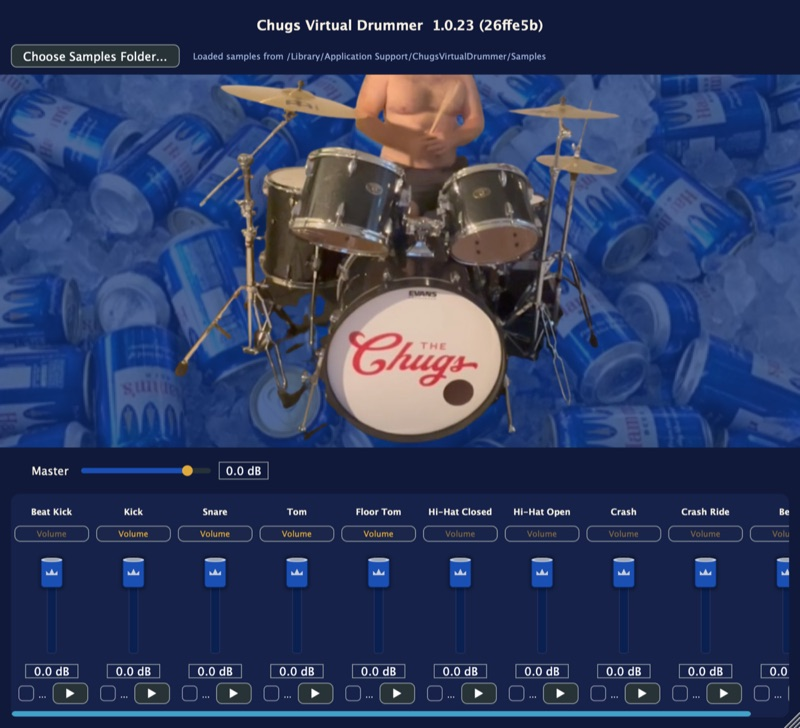
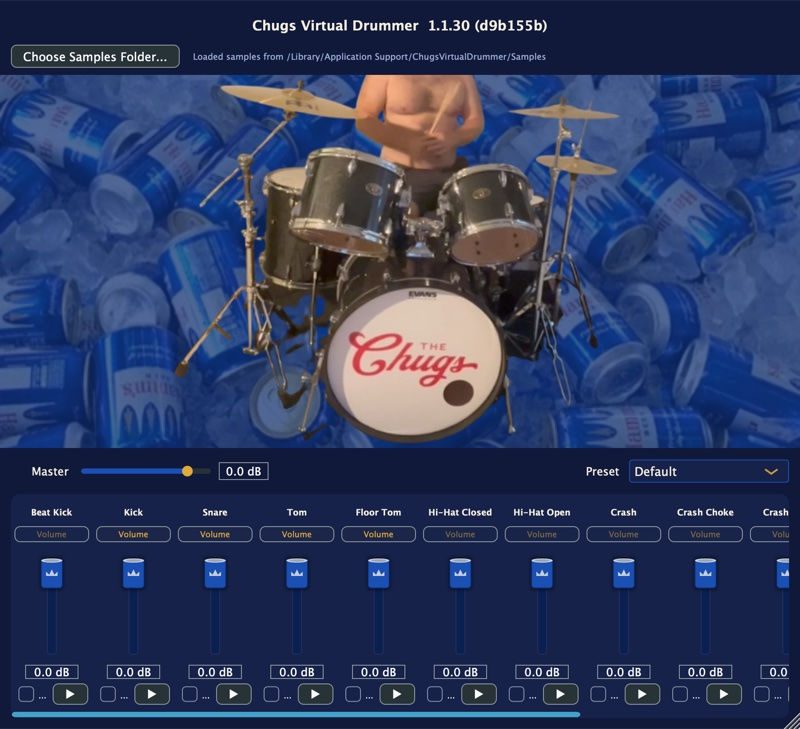
Update Chugs Virtual Drummer screenshot and pad count

diff --git a/README.md b/README.md
@@ -8,7 +8,7 @@ Installers for Wambach Audio plugins.
 
 ## Chugs Virtual Drummer
 
-A multi-mic, round-robin drum sampler. Ten pads with their own close and
+A multi-mic, round-robin drum sampler. Thirteen pads with their own close and
 overhead mic mixes, played as one stereo kit or split out to separate
 channels. The installer also installs the drum sample library (about 200 MB
 once installed).
